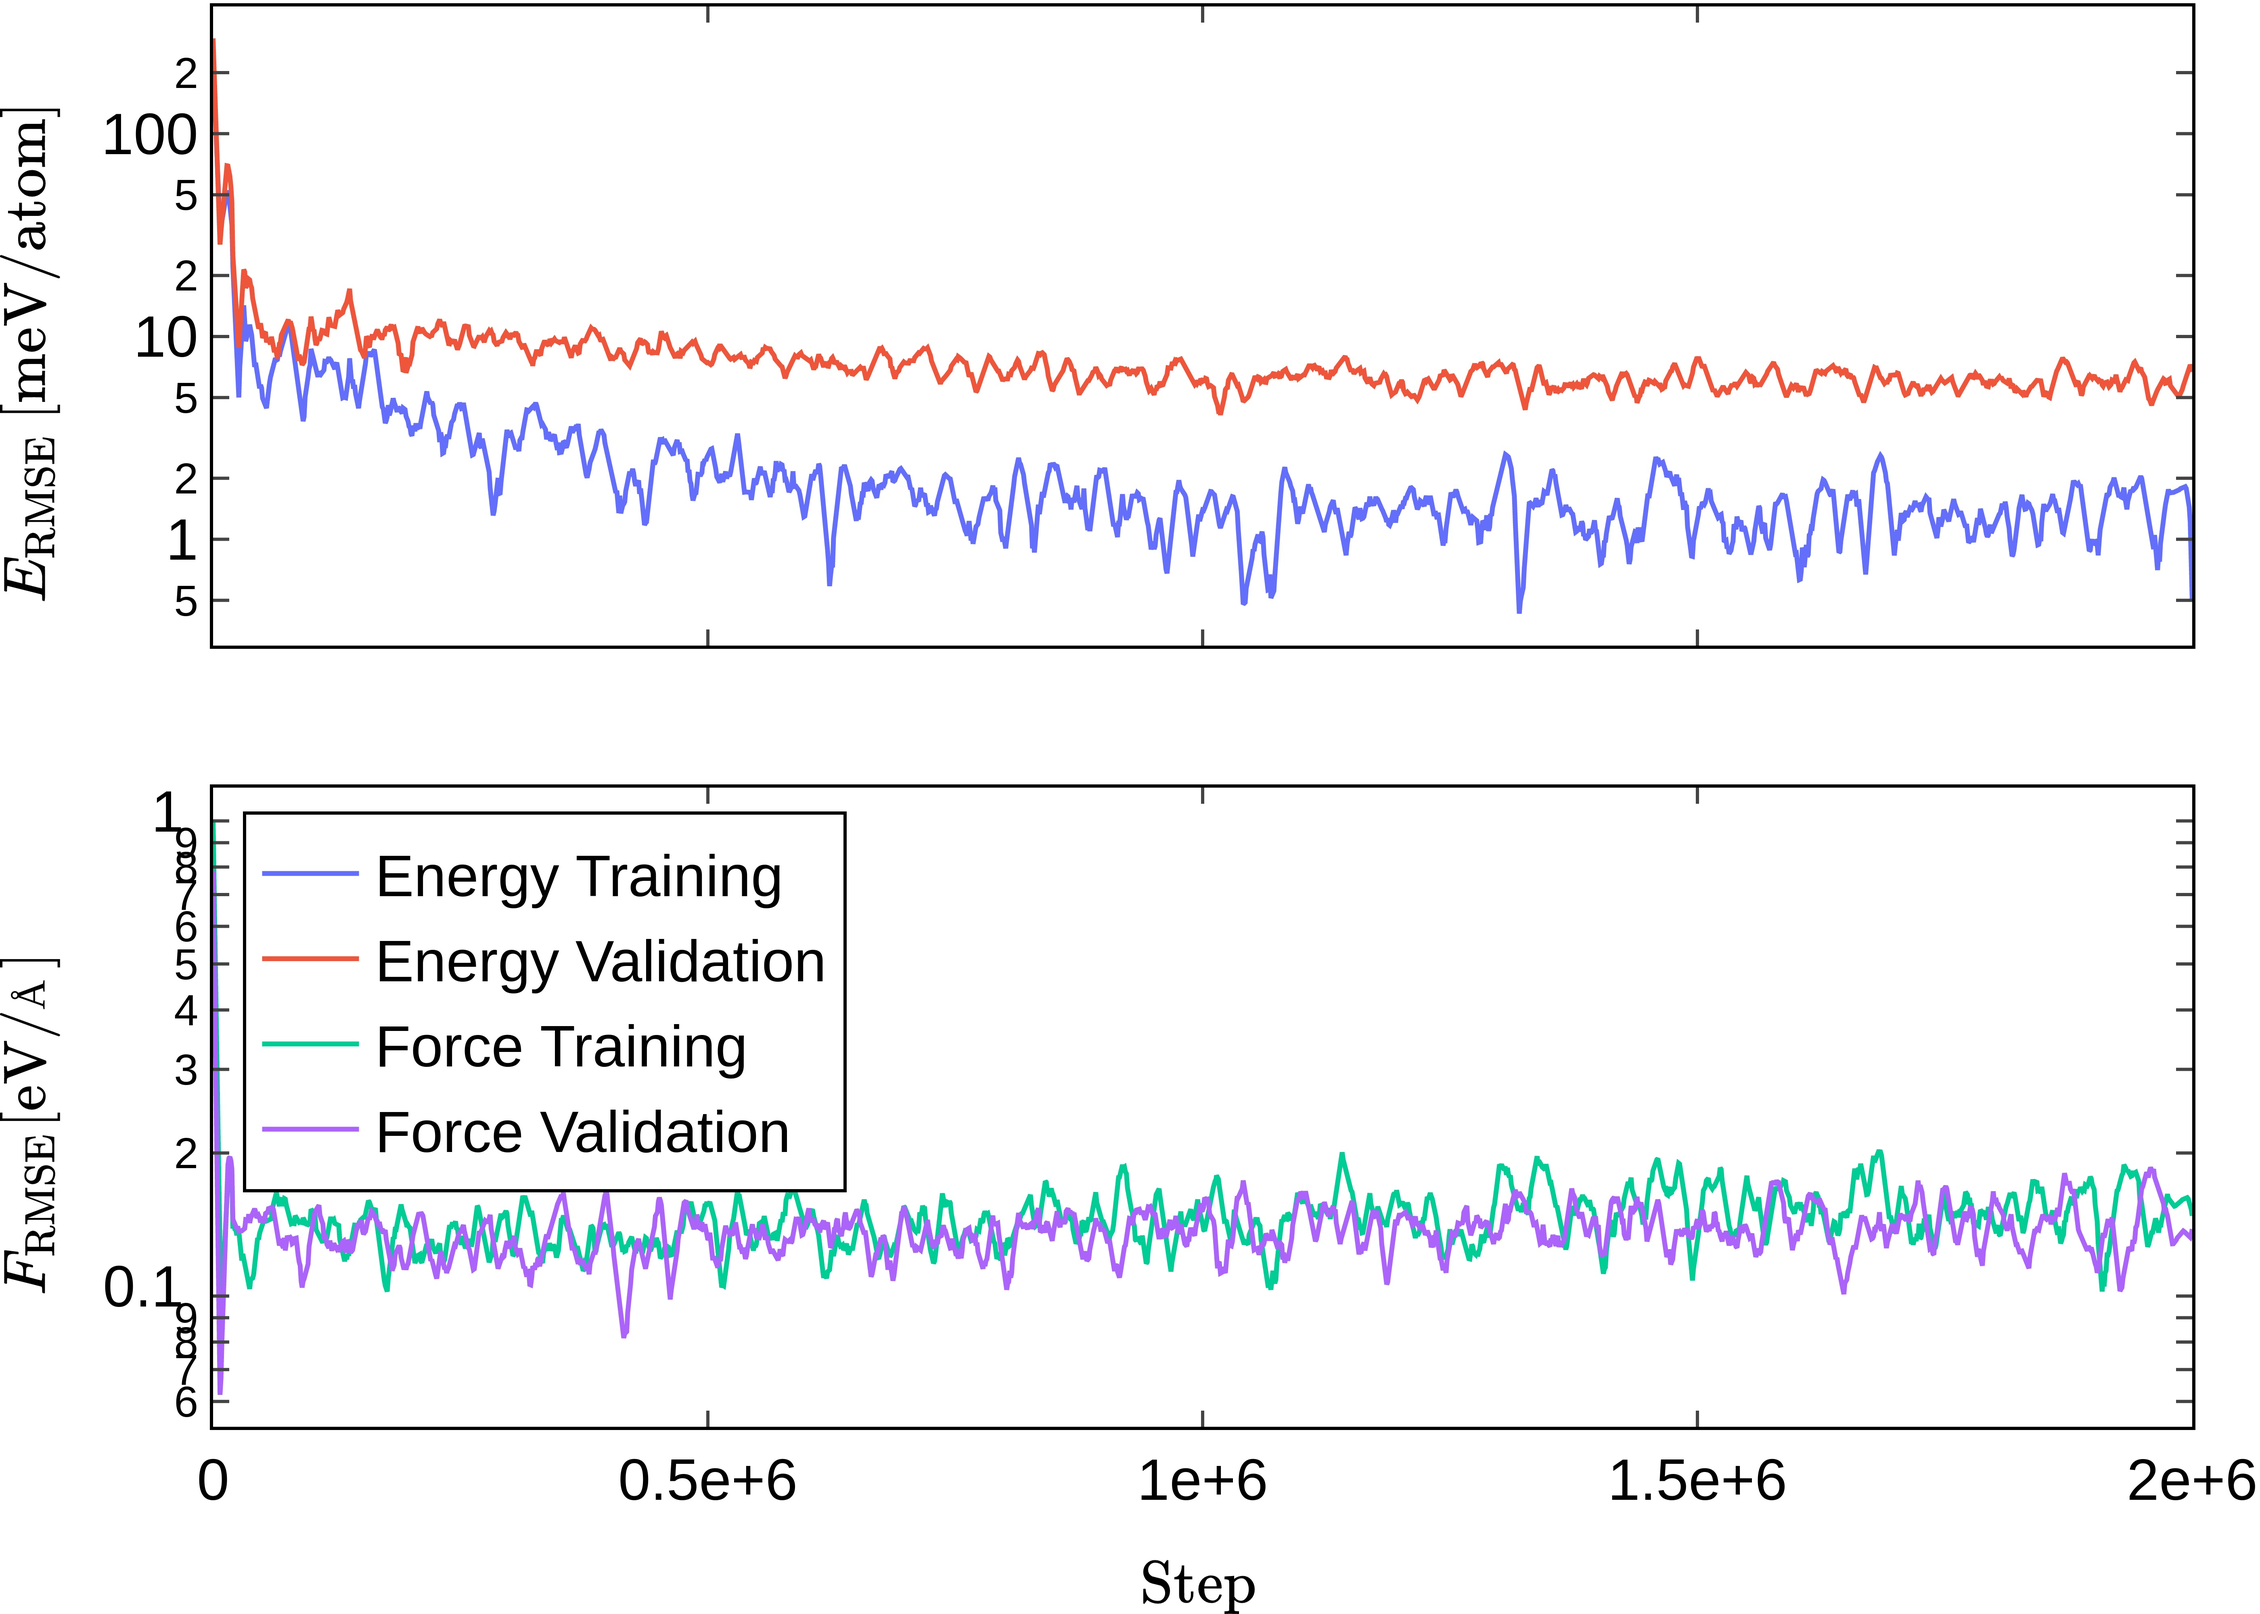
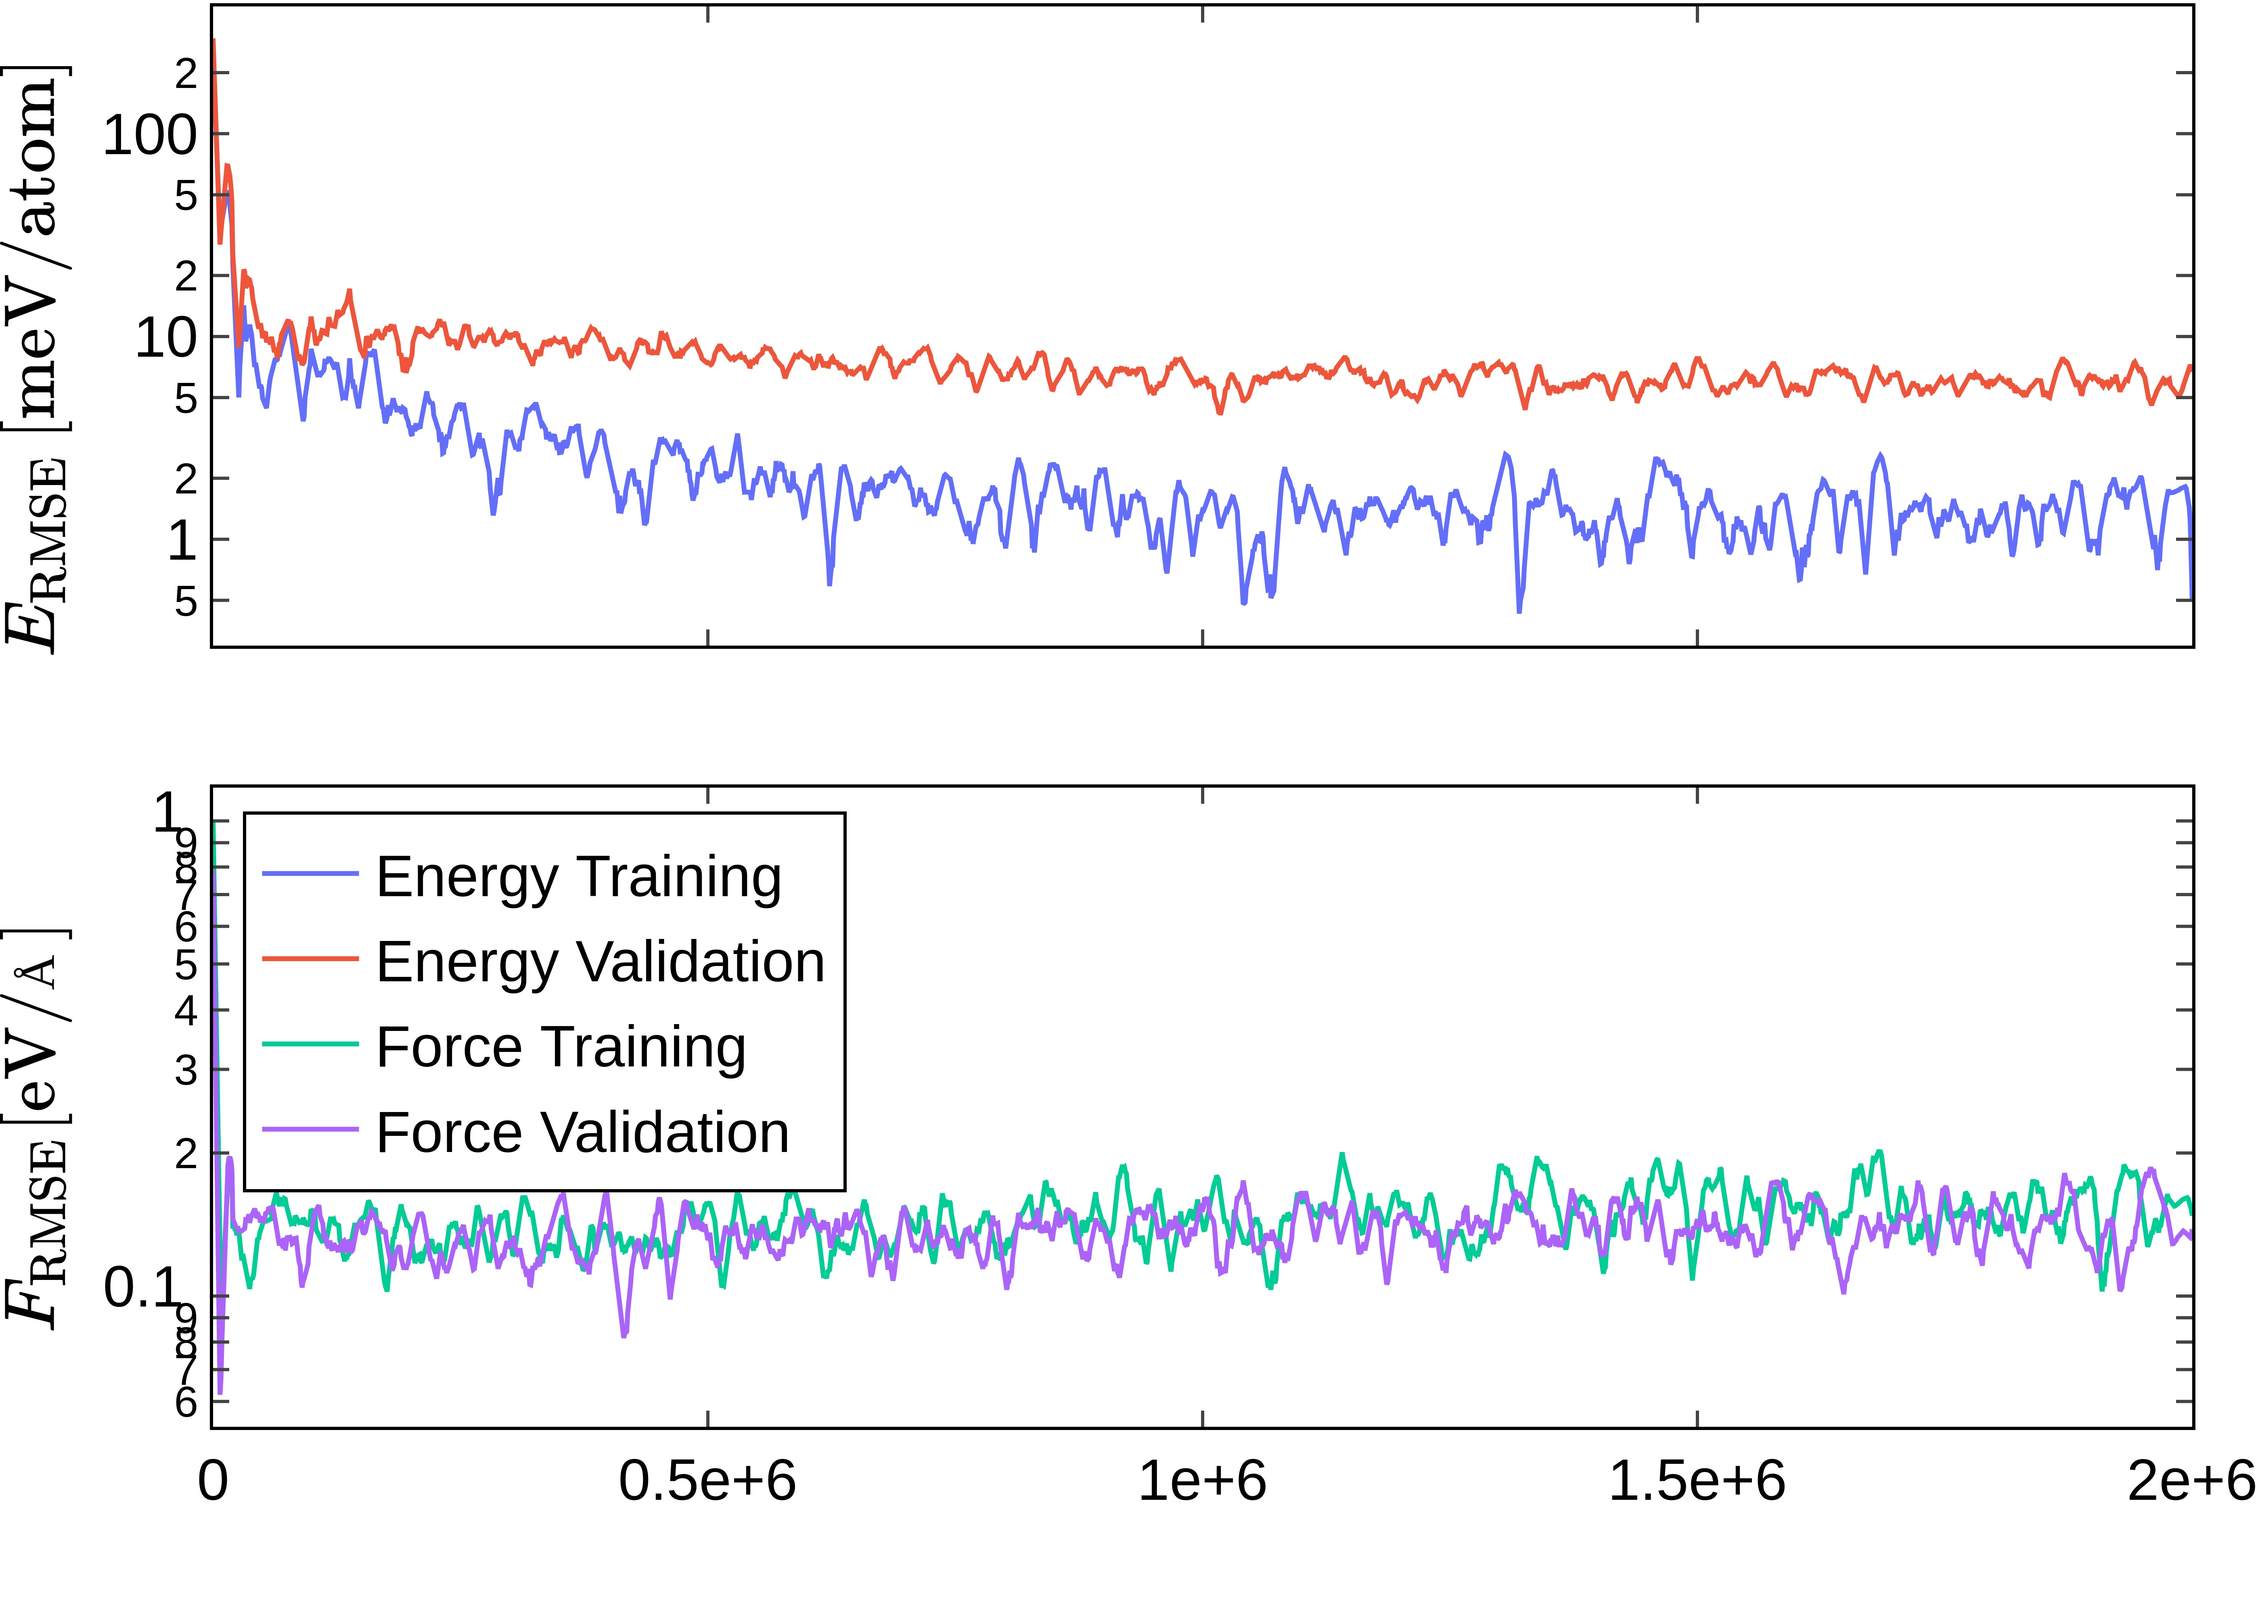
fix: plot label sizes

Changed region(s): [[0.0, 0.0312, 0.0312, 0.4062], [0.0, 0.5938, 0.0312, 0.8125], [0.5, 0.9688, 0.5625, 1.0]]

diff --git a/ml4md/plot_l_curves_subplots.py b/ml4md/plot_l_curves_subplots.py
@@ -44,7 +44,7 @@ def plot_l_cuves(data, output_file, savgol_window=40):
             "y_2": savgol_filter(data[:,4] * 1e3, savgol_window, 5),
             "training_color": px.colors.qualitative.Plotly[0],
             "validation_color": px.colors.qualitative.Plotly[1],
-            "y_title_text": "$E_\\text{RMSE} \, [\\text{meV}/\\text{atom}]$"
+            "y_title_text": "$\large{\large{E_\\text{RMSE} \, [\\text{meV}/\\text{atom}]}}$"
         },
         "force": {
             "x": data[:,0],
@@ -52,7 +52,7 @@ def plot_l_cuves(data, output_file, savgol_window=40):
             "y_2": savgol_filter(data[:,6], savgol_window, 5),
             "training_color": px.colors.qualitative.Plotly[2],
             "validation_color": px.colors.qualitative.Plotly[3],
-            "y_title_text": "$F_\\text{RMSE} [\\text{eV}/\\text{Å}]$"
+            "y_title_text": "$\large{\large{F_\\text{RMSE} [\\text{eV}/\\text{Å}]}}$"
         }
     }
 
@@ -118,7 +118,7 @@ def plot_l_cuves(data, output_file, savgol_window=40):
     )
 
     fig.update_xaxes(
-        title_text="$\\text{Step}$",
+        title_text="$\large{\\text{Step}$}",
         col=1,
         row=2
     )

diff --git a/ml4md/plot_cutoff_convergence_plots.py b/ml4md/plot_cutoff_convergence_plots.py
@@ -82,13 +82,13 @@ def plot(energy_data, force_data, output_file):
     )
 
     fig.update_xaxes(
-        title_text="$\\text{Enegy Cutoff} \, [\mathrm{Ry}]$",
+        title_text="$\large{\\text{Enegy Cutoff} \, [\mathrm{Ry}]}$",
         col=1,
         row=2
     )
 
     fig.update_yaxes(
-        title_text="$\\text{Total Energy} \, [\mathrm{eV}]$",
+        title_text="$\large{\\text{Total Energy} \, [\mathrm{eV}]}$",
         tickformat=".5f",
         showgrid=False,
         linewidth=1,
@@ -101,7 +101,7 @@ def plot(energy_data, force_data, output_file):
     )
 
     fig.update_yaxes(
-        title_text="$\\text{Average force} \, [\mathrm{ev}/\mathrm{Å}]$",
+        title_text="$\large{\\text{Average force} \, [\mathrm{ev}/\mathrm{Å}]}$",
         showgrid=False,
         linewidth=1,
         linecolor="black",

diff --git a/ml4md/plot_kpoint_convergence_plots.py b/ml4md/plot_kpoint_convergence_plots.py
@@ -80,13 +80,13 @@ def plot(energy_data, force_data, output_file):
     )
 
     fig.update_xaxes(
-        title_text="$\\text{Number of K-Points}$",
+        title_text="$\large{\\text{Number of K-Points}}$",
         col=1,
         row=2
     )
 
     fig.update_yaxes(
-        title_text="$\\text{Total Energy} \, [\mathrm{eV}]$",
+        title_text="$\large{\\text{Total Energy} \, [\mathrm{eV}]}$",
         tickformat=".5f",
         showgrid=False,
         linewidth=1,
@@ -99,7 +99,7 @@ def plot(energy_data, force_data, output_file):
     )
 
     fig.update_yaxes(
-        title_text="$\\text{Average force} \, [\mathrm{ev}/\mathrm{Å}]$",
+        title_text="$\large{\\text{Average force} \, [\mathrm{ev}/\mathrm{Å}]}$",
         showgrid=False,
         linewidth=1,
         linecolor="black",

diff --git a/ml4md/plot_amorphous_ev_curves.py b/ml4md/plot_amorphous_ev_curves.py
@@ -62,12 +62,13 @@ def main():
                 x=v_p,
                 y=e_p,
                 line=dict(width=1.5, color=color),
-                name=f"{eos_fit.eos.title()} fit"
+                showlegend=False
             )
         )
 
     figure.update_layout(
         title=data.title,
+        font_size=19,
         font_color="#000",
         plot_bgcolor="#fff",
         xaxis=dict(
@@ -94,8 +95,8 @@ def main():
             bordercolor="#000",
             borderwidth=1
         ),
-        xaxis_title=r"$V \, [\mathrm{Å}^3/\mathrm{atom}]$",
-        yaxis_title=r"$E \, [\mathrm{eV}/\mathrm{atom}]$",
+        xaxis_title=r"$\large{V \, [\mathrm{Å}^3/\mathrm{atom}]}$",
+        yaxis_title=r"$\large{E \, [\mathrm{eV}/\mathrm{atom}]}$",
         margin=dict(l=1, r=1, b=1, t=1)
     )
 

diff --git a/ml4md/plot_crystalline_ev_curves.py b/ml4md/plot_crystalline_ev_curves.py
@@ -116,8 +116,8 @@ def main():
             bordercolor="#000",
             borderwidth=1
         ),
-        xaxis_title=r"$V \, [\mathrm{Å}^3]$",
-        yaxis_title=r"$E \, [\mathrm{meV}/\mathrm{atom}]$",
+        xaxis_title=r"$\large{V \, [\mathrm{Å}^3]}$",
+        yaxis_title=r"$\large{E \, [\mathrm{meV}/\mathrm{atom}]}$",
         margin=dict(l=1, r=1, b=1, t=1)
     )
 
